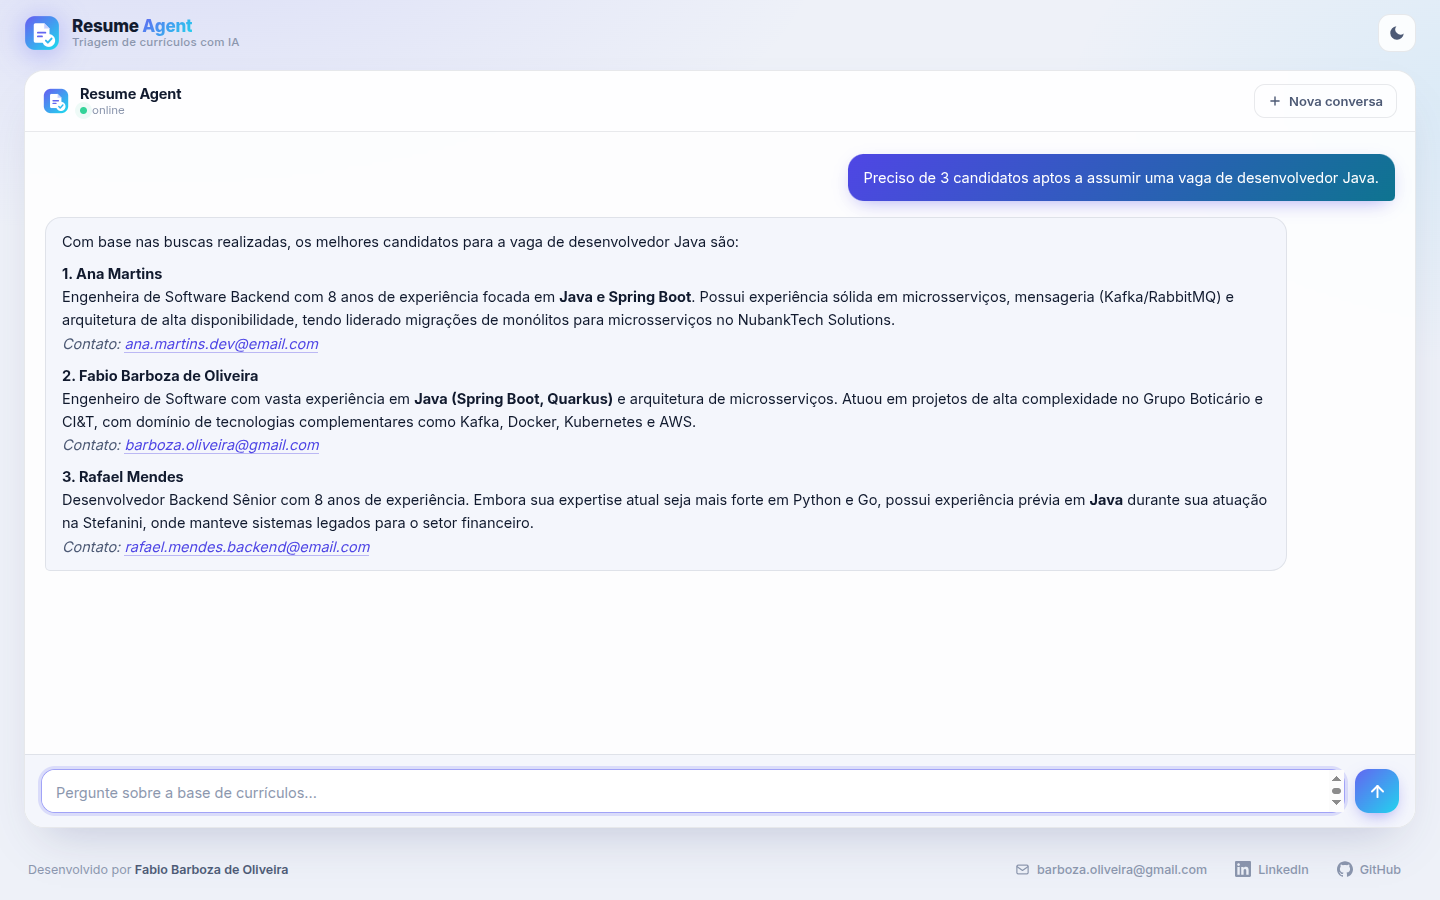
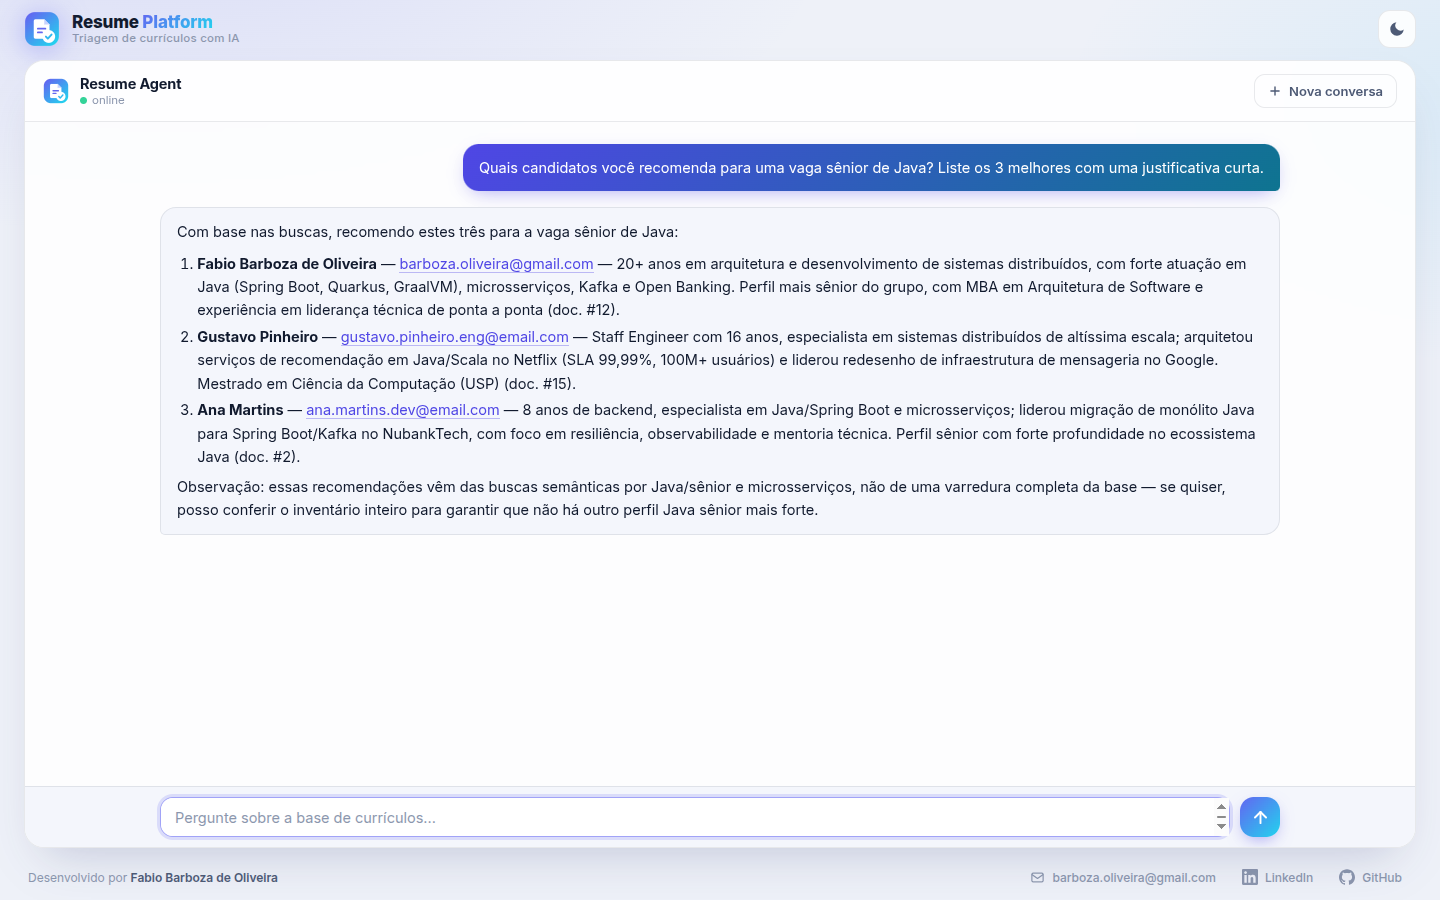
feat: enhance README with updated chat features and chart descriptions

diff --git a/README.md b/README.md
@@ -35,8 +35,10 @@ decisão sobre a vida profissional de alguém; regra no system prompt é pedido 
 
 <p align="center"><sub>Pergunta em português; o agente escolhe as ferramentas, busca na base
 vetorial e justifica cada indicação. Pedir o currículo devolve o PDF original, que abre ao lado da
-conversa — a tela só divide quando você pede. O cabeçalho traz o indicador de saúde da API
-(<code>online</code>/<code>offline</code>, via <code>/health</code>) e o botão de tema claro/escuro.</sub></p>
+conversa — a tela só divide quando você pede. A conversa ocupa uma coluna de largura fixa, então a
+resposta não muda de caixa conforme o tamanho do texto. O cabeçalho traz o indicador de saúde da API
+(<code>online</code>/<code>offline</code>, via <code>/health</code>) e o botão de tema claro/escuro.
+Perguntas quantitativas viram <a href="#gráficos">gráfico</a>.</sub></p>
 
 ## O que este projeto demonstra
 
@@ -106,7 +108,7 @@ pgvector + HNSW                PDFs originais     traces (opcional)
 
 | Diretório | Stack | Porta | Responsabilidade |
 |-----------|-------|-------|------------------|
-| [`resume-webui/`](resume-webui/) | Vite 8, marked 18 (JS puro) | 5173 | Chat no browser; renderiza markdown, abre o PDF do currículo lado a lado, indica saúde da API e alterna tema claro/escuro |
+| [`resume-webui/`](resume-webui/) | Vite 8, marked 18 (JS puro) | 5173 | Chat no browser; renderiza markdown, desenha os gráficos (Chart.js), abre o PDF do currículo lado a lado, indica saúde da API e alterna tema claro/escuro |
 | [`resume-agent/`](resume-agent/README.md) | Python 3.13, FastAPI, LangChain + LangGraph, SQLAlchemy, Alembic | 8000 | O agente, os guardrails, a ingestão de PDFs e a API REST |
 
 O `resume-agent` tem [README próprio](resume-agent/README.md), bem mais fundo: modelo de dados,
@@ -256,6 +258,14 @@ incremental sabe com certeza quando o dado acabou — nenhum ponto é plotado an
 com o contrato, cai no fallback de tabela (`renderChartFallback`) em vez de quebrar a resposta.
 
 ## Gráficos
+
+![Contagem de candidatos por tecnologia respondida em tabela e desenhada como gráfico de barras, no tema escuro](docs/demo-chart-bar.png)
+
+![Distribuição por senioridade em gráfico de pizza, no tema claro, com o agente explicando por que a soma excede o total de candidatos](docs/demo-chart-pie.png)
+
+<p align="center"><sub>O gráfico acompanha a resposta em texto, nunca a substitui: a tabela com os
+números fica acima, e o agente diz de onde eles vieram — inclusive quando a contagem por termo não
+é uma partição exata da base.</sub></p>
 
 Pergunta quantitativa ou comparativa ("gráfico de candidatos por tecnologia", "distribuição por
 tecnologia") faz o agente acrescentar um bloco ` ```chart ` ao final da resposta. Os números vêm
